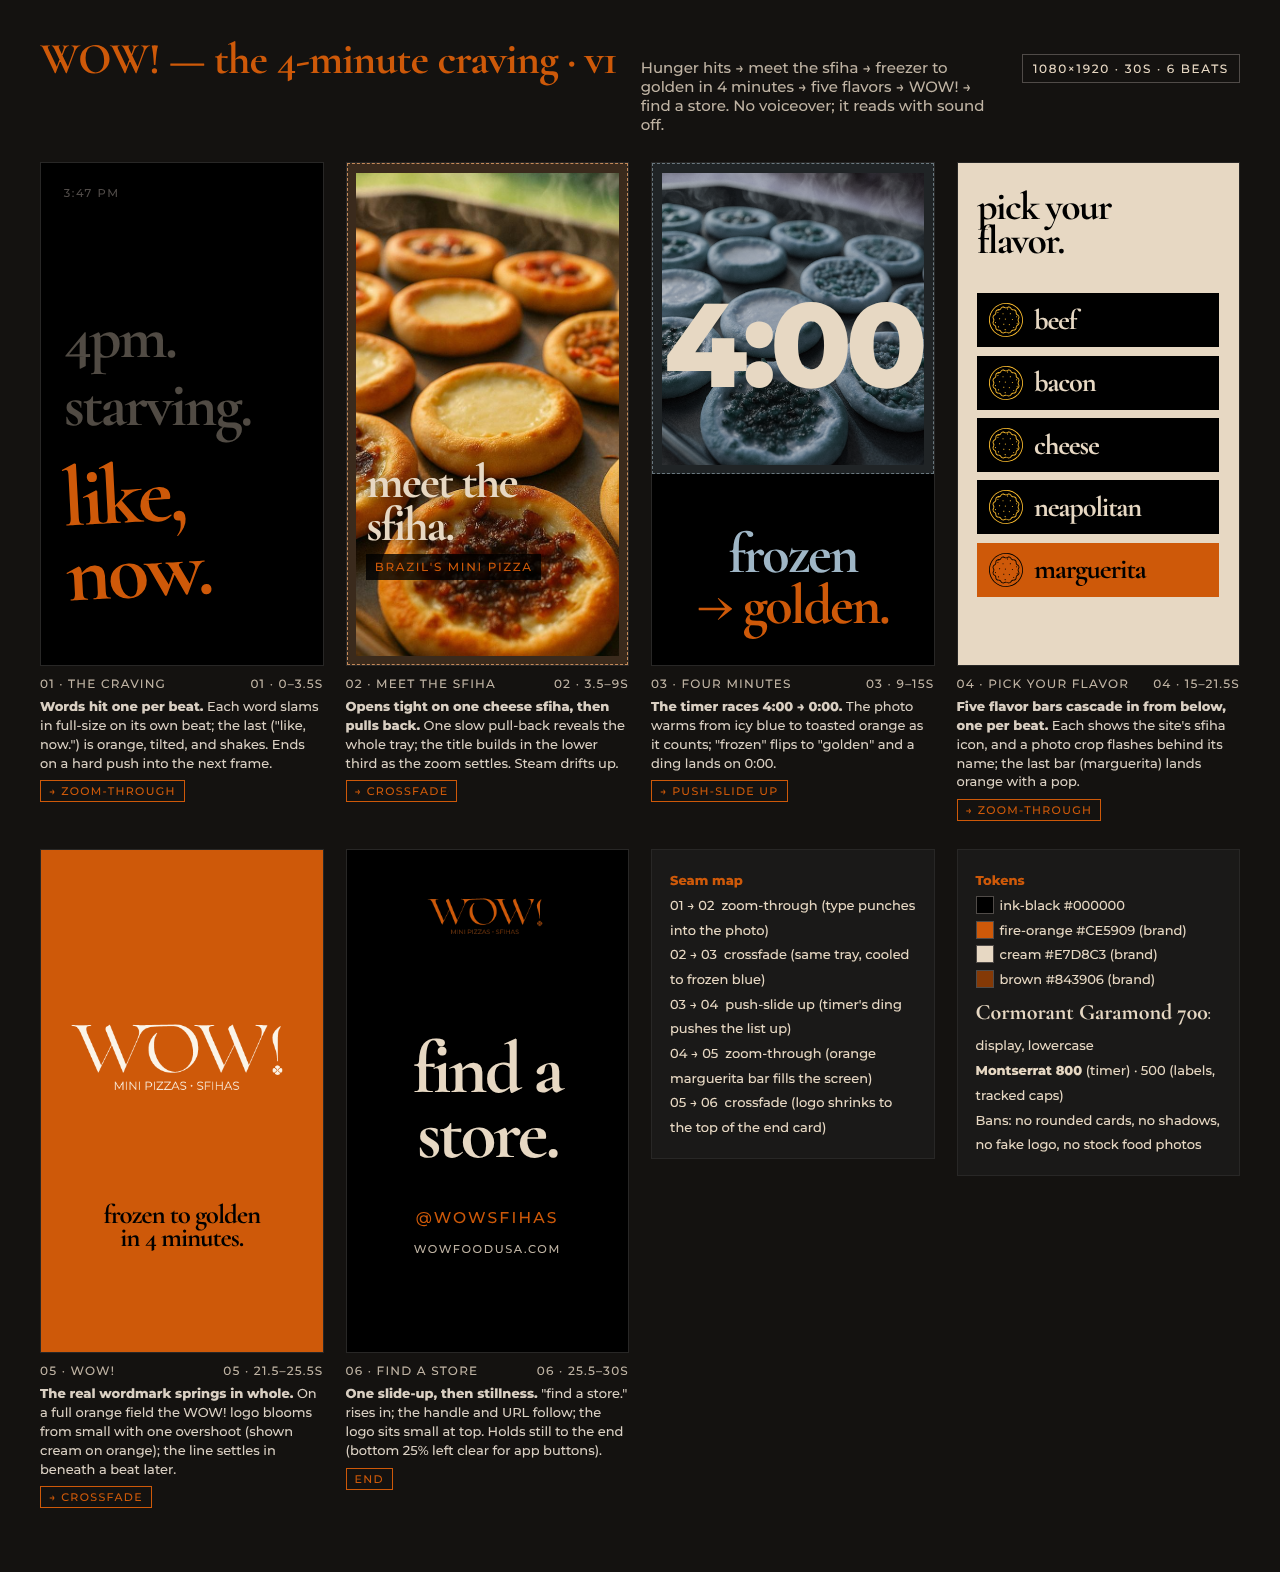
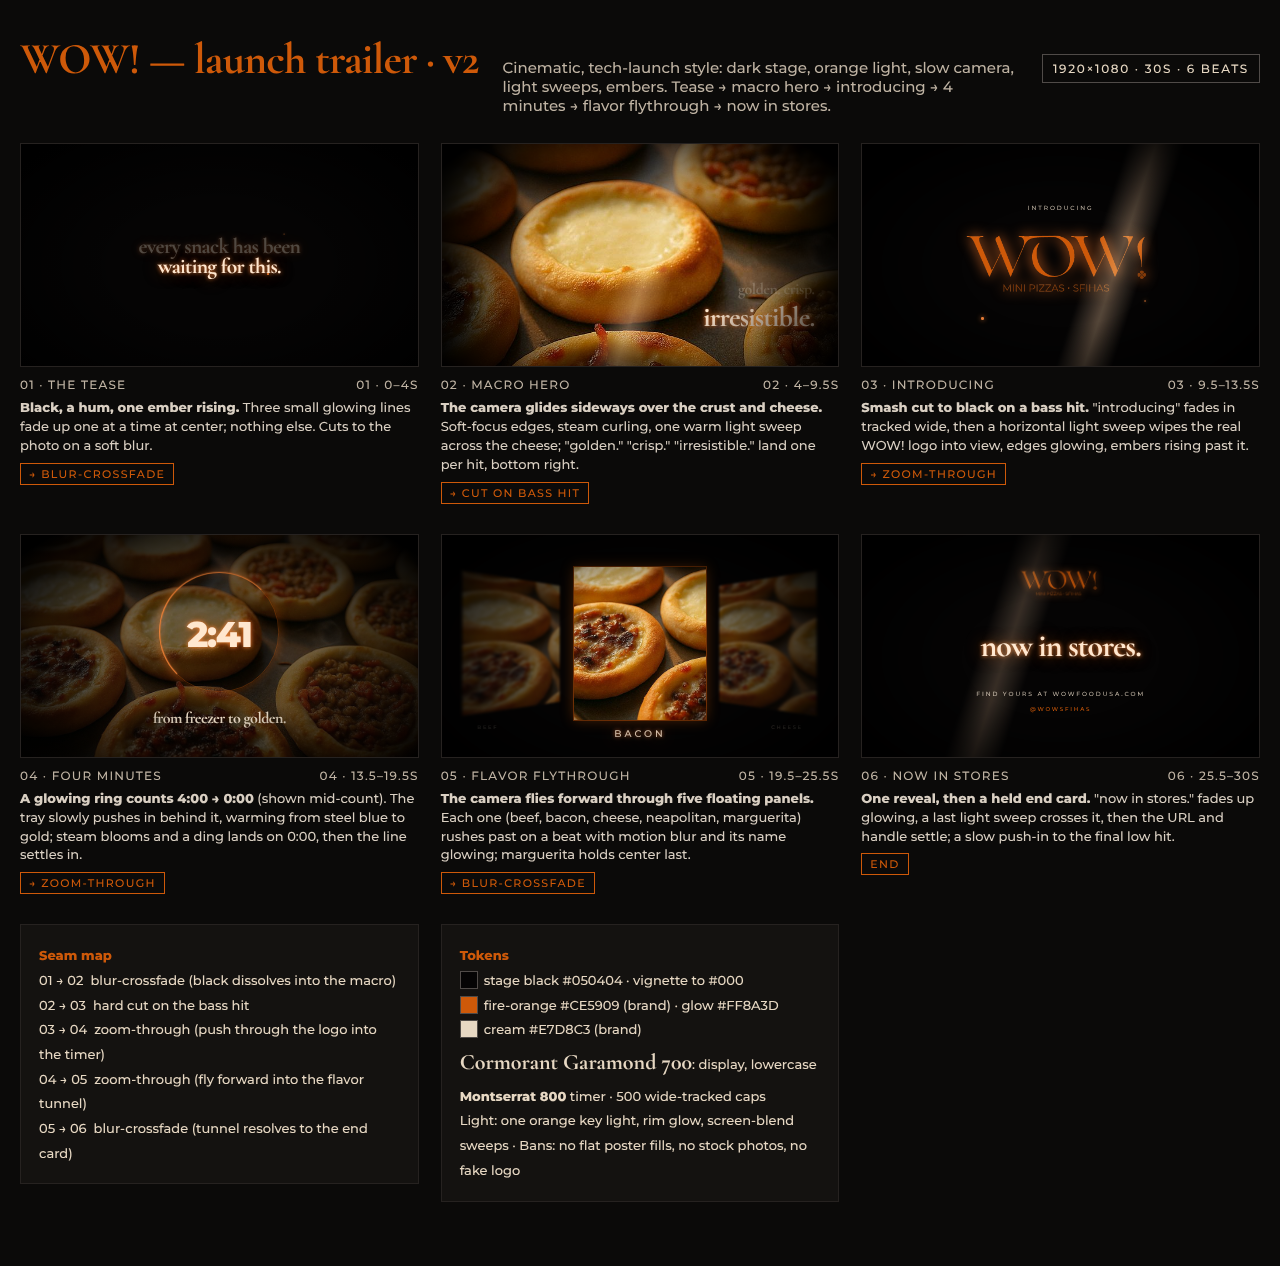
WOW Food promo: cinematic storyboard sketch sheet v2 (16:9 master)
Claude-Session: https://claude.ai/code/session_01MET2YuLU4Gcs9yWgBiYMVD

diff --git a/videos/wowfood-promo/storyboard.html b/videos/wowfood-promo/storyboard.html
@@ -1,136 +1,141 @@
 <!doctype html>
 <html lang="en"><head><meta charset="utf-8"><meta name="viewport" content="width=device-width,initial-scale=1">
-<title>WOW Food — 4-Minute Craving · storyboard v1</title>
+<title>WOW Food — Launch Trailer · storyboard v2</title>
 <style>
 @font-face { font-family: Cormorant; src: url(assets/fonts/cormorant-700.ttf); font-weight: 700; }
 @font-face { font-family: Montserrat; src: url(assets/fonts/montserrat-500.ttf); font-weight: 500; }
 @font-face { font-family: Montserrat; src: url(assets/fonts/montserrat-800.ttf); font-weight: 800; }
-:root { --ink: #000; --ink2: #1A1918; --orange: #CE5909; --cream: #E7D8C3; --brown: #843906; --hint: #504B48; }
+:root { --orange: #CE5909; --glow: #ff8a3d; --cream: #E7D8C3; --brown: #843906; }
 * { box-sizing: border-box; }
-body { margin: 0; background: #141210; color: var(--cream); font-family: Montserrat, system-ui, sans-serif; padding: 32px 16px 64px; }
-header { max-width: 1200px; margin: 0 auto 28px; display: flex; flex-wrap: wrap; gap: 12px 24px; align-items: baseline; }
+body { margin: 0; background: #0b0a09; color: var(--cream); font-family: Montserrat, system-ui, sans-serif; padding: 32px 16px 64px; }
+header { max-width: 1240px; margin: 0 auto 28px; display: flex; flex-wrap: wrap; gap: 12px 24px; align-items: baseline; }
 h1 { font-family: Cormorant, Georgia, serif; font-size: 44px; margin: 0; color: var(--orange); letter-spacing: -.02em; }
 .dek { color: #bfb3a3; font-size: 15px; flex: 1 1 320px; }
 .tag { font-size: 12px; letter-spacing: .14em; text-transform: uppercase; border: 1px solid #504B48; padding: 6px 10px; }
-.grid { max-width: 1200px; margin: 0 auto; display: grid; grid-template-columns: repeat(auto-fill, minmax(260px, 1fr)); gap: 28px 22px; }
+.grid { max-width: 1240px; margin: 0 auto; display: grid; grid-template-columns: repeat(auto-fill, minmax(360px, 1fr)); gap: 30px 22px; }
 .cell { container-type: inline-size; }
-.frame { aspect-ratio: 9 / 16; position: relative; overflow: hidden; background: var(--ink); border: 1px solid #282726; }
-.frame * { position: absolute; margin: 0; }
-.big { font-family: Cormorant, Georgia, serif; font-weight: 700; letter-spacing: -.04em; line-height: .88; text-transform: lowercase; }
-.lab { font-family: Montserrat, sans-serif; font-weight: 500; letter-spacing: .14em; text-transform: uppercase; }
-.photo { background: #3a2a1c; border: 1.5px dashed #c48a5a; display: flex; align-items: center; justify-content: center; color: #e2b48a; font-size: 4cqw; text-align: center; padding: 3cqw; }
-.photo img { position: static; width: 100%; height: 100%; object-fit: cover; }
+.frame { aspect-ratio: 16 / 9; position: relative; overflow: hidden; background: #050404; border: 1px solid #262220; }
+.frame > * { position: absolute; margin: 0; }
+.vig { inset: 0; background: radial-gradient(ellipse at 50% 55%, transparent 35%, #000 92%); pointer-events: none; }
+.big { font-family: Cormorant, Georgia, serif; font-weight: 700; letter-spacing: -.03em; line-height: .9; text-transform: lowercase; }
+.lab { font-family: Montserrat, sans-serif; font-weight: 500; letter-spacing: .32em; text-transform: uppercase; }
+.glow { color: #ffe7cf; text-shadow: 0 0 1.2cqw var(--glow), 0 0 4cqw #ce590988; }
+.ph { object-fit: cover; }
+.sweep { top: -10%; height: 120%; width: 14cqw; background: linear-gradient(90deg, transparent, #ffd2a866, transparent); transform: skewX(-18deg); mix-blend-mode: screen; }
+.ember { width: .6cqw; height: .6cqw; border-radius: 50%; background: var(--glow); box-shadow: 0 0 1.4cqw var(--glow); }
 .meta { display: flex; justify-content: space-between; font-size: 12px; letter-spacing: .1em; text-transform: uppercase; color: #bfb3a3; margin: 10px 0 6px; }
 .note { font-size: 13px; line-height: 1.45; color: #d9cfc2; margin: 0 0 8px; }
 .chip { display: inline-block; font-size: 11px; letter-spacing: .12em; text-transform: uppercase; color: var(--orange); border: 1px solid var(--orange); padding: 3px 8px; }
-.ghost { opacity: .35; }
-.seams { aspect-ratio: auto; padding: 18px; background: var(--ink2); border: 1px solid #282726; font-size: 13px; line-height: 1.9; }
+.box { padding: 18px; background: #141210; border: 1px solid #262220; font-size: 13px; line-height: 1.9; }
 .sw { display: inline-block; width: 18px; height: 18px; vertical-align: -4px; margin-right: 6px; border: 1px solid #504B48; }
+.dim { opacity: .3; }
 </style></head>
 <body>
 <header>
-  <h1>WOW! — the 4-minute craving · v1</h1>
-  <div class="dek">Hunger hits → meet the sfiha → freezer to golden in 4 minutes → five flavors → WOW! → find a store. No voiceover; it reads with sound off.</div>
-  <div class="tag">1080×1920 · 30s · 6 beats</div>
+  <h1>WOW! — launch trailer · v2</h1>
+  <div class="dek">Cinematic, tech-launch style: dark stage, orange light, slow camera, light sweeps, embers. Tease → macro hero → introducing → 4 minutes → flavor flythrough → now in stores.</div>
+  <div class="tag">1920×1080 · 30s · 6 beats</div>
 </header>
 <main class="grid">
 
 <section class="cell" id="frame-01">
   <div class="frame">
-    <p class="lab" style="top:8cqw;left:8cqw;font-size:4cqw;color:var(--hint)">3:47 pm</p>
-    <p class="big ghost" style="top:52cqw;left:8cqw;font-size:22cqw;color:var(--cream)">4pm.</p>
-    <p class="big ghost" style="top:76cqw;left:8cqw;font-size:22cqw;color:var(--cream)">starving.</p>
-    <p class="big" style="top:104cqw;left:8cqw;font-size:30cqw;color:var(--orange);transform:rotate(-3deg)">like,<br>now.</p>
+    <div class="ember" style="left:62%;top:58%"></div><div class="ember" style="left:66%;top:40%;opacity:.5;transform:scale(.6)"></div>
+    <p class="big glow" style="left:0;right:0;top:42%;text-align:center;font-size:5.4cqw"><span class="dim">every snack has been</span><br>waiting for this.</p>
+    <div class="vig"></div>
   </div>
-  <div class="meta"><span>01 · The craving</span><span>01 · 0–3.5s</span></div>
-  <p class="note"><b>Words hit one per beat.</b> Each word slams in full-size on its own beat; the last ("like, now.") is orange, tilted, and shakes. Ends on a hard push into the next frame.</p>
-  <span class="chip">→ zoom-through</span>
+  <div class="meta"><span>01 · The tease</span><span>01 · 0–4s</span></div>
+  <p class="note"><b>Black, a hum, one ember rising.</b> Three small glowing lines fade up one at a time at center; nothing else. Cuts to the photo on a soft blur.</p>
+  <span class="chip">→ blur-crossfade</span>
 </section>
 
 <section class="cell" id="frame-02">
-  <div class="frame" style="background:var(--ink2)">
-    <div class="photo" style="inset:0"><img src="capture/assets/hero-combo.jpg" alt="" style="object-position:30% 50%"></div>
-    <p class="big" style="left:7cqw;bottom:42cqw;font-size:17cqw;color:var(--cream);text-shadow:0 .6cqw 3cqw #000a">meet the<br>sfiha.</p>
-    <p class="lab" style="left:7cqw;bottom:30cqw;font-size:4.2cqw;color:var(--orange);background:#000c;padding:2cqw 3cqw">brazil's mini pizza</p>
+  <div class="frame">
+    <img class="ph" src="capture/assets/hero-combo.jpg" alt="" style="left:-20%;top:-35%;width:150%;height:170%;object-position:40% 55%">
+    <div style="inset:0;backdrop-filter:blur(.0px);background:linear-gradient(90deg,#000c,transparent 22%,transparent 78%,#000c)"></div>
+    <div class="sweep" style="left:46%"></div>
+    <p class="big glow" style="right:6cqw;bottom:9cqw;font-size:7cqw">irresistible.</p>
+    <p class="big dim" style="right:6cqw;bottom:17.5cqw;font-size:4cqw;color:var(--cream)">golden. crisp.</p>
+    <div class="vig"></div>
   </div>
-  <div class="meta"><span>02 · Meet the sfiha</span><span>02 · 3.5–9s</span></div>
-  <p class="note"><b>Opens tight on one cheese sfiha, then pulls back.</b> One slow pull-back reveals the whole tray; the title builds in the lower third as the zoom settles. Steam drifts up.</p>
-  <span class="chip">→ crossfade</span>
+  <div class="meta"><span>02 · Macro hero</span><span>02 · 4–9.5s</span></div>
+  <p class="note"><b>The camera glides sideways over the crust and cheese.</b> Soft-focus edges, steam curling, one warm light sweep across the cheese; "golden." "crisp." "irresistible." land one per hit, bottom right.</p>
+  <span class="chip">→ cut on bass hit</span>
 </section>
 
 <section class="cell" id="frame-03">
   <div class="frame">
-    <div class="photo" style="left:0;right:0;top:0;height:62%;filter:saturate(.25) hue-rotate(170deg) brightness(.8)"><img src="capture/assets/og-image.jpg" alt=""></div>
-    <p class="big" style="left:0;right:0;top:46cqw;text-align:center;font-size:42cqw;color:var(--cream);font-family:Montserrat;font-weight:800;letter-spacing:-.05em">4:00</p>
-    <p class="big" style="left:0;right:0;bottom:30cqw;text-align:center;font-size:20cqw;color:#9fb6c6">frozen</p>
-    <p class="big" style="left:0;right:0;bottom:12cqw;text-align:center;font-size:20cqw;color:var(--orange)">→ golden.</p>
+    <p class="lab" style="left:0;right:0;top:27%;text-align:center;font-size:1.5cqw;color:#bfb3a3">introducing</p>
+    <img src="capture/assets/logo-wow-wordmark.png" alt="WOW!" style="left:22%;width:56%;top:31%;filter:drop-shadow(0 0 1.6cqw #ff7a2a)">
+    <div class="sweep" style="left:58%;opacity:.8"></div>
+    <div class="ember" style="left:30%;top:78%"></div><div class="ember" style="left:71%;top:70%;transform:scale(.7)"></div>
+    <div class="vig"></div>
   </div>
-  <div class="meta"><span>03 · Four minutes</span><span>03 · 9–15s</span></div>
-  <p class="note"><b>The timer races 4:00 → 0:00.</b> The photo warms from icy blue to toasted orange as it counts; "frozen" flips to "golden" and a ding lands on 0:00.</p>
-  <span class="chip">→ push-slide up</span>
+  <div class="meta"><span>03 · Introducing</span><span>03 · 9.5–13.5s</span></div>
+  <p class="note"><b>Smash cut to black on a bass hit.</b> "introducing" fades in tracked wide, then a horizontal light sweep wipes the real WOW! logo into view, edges glowing, embers rising past it.</p>
+  <span class="chip">→ zoom-through</span>
 </section>
 
 <section class="cell" id="frame-04">
-  <div class="frame" style="background:var(--cream)">
-    <p class="big" style="top:9cqw;left:7cqw;font-size:14cqw;color:var(--ink)">pick your<br>flavor.</p>
-    <div style="left:7cqw;right:7cqw;top:46cqw;display:grid;gap:3cqw;position:absolute">
-      <div style="position:relative;height:19cqw;background:var(--ink);display:flex;align-items:center;gap:4cqw;padding:0 4cqw"><img src="capture/assets/svgs/svg-31e0594a.svg" style="position:static;width:12cqw;filter:invert(1) sepia(1) saturate(4) hue-rotate(-20deg)"><span class="big" style="position:static;font-size:10cqw;color:var(--cream)">beef</span></div>
-      <div style="position:relative;height:19cqw;background:var(--ink);display:flex;align-items:center;gap:4cqw;padding:0 4cqw"><img src="capture/assets/svgs/svg-540e57a6.svg" style="position:static;width:12cqw;filter:invert(1) sepia(1) saturate(4) hue-rotate(-20deg)"><span class="big" style="position:static;font-size:10cqw;color:var(--cream)">bacon</span></div>
-      <div style="position:relative;height:19cqw;background:var(--ink);display:flex;align-items:center;gap:4cqw;padding:0 4cqw"><img src="capture/assets/svgs/svg-681eea7e.svg" style="position:static;width:12cqw;filter:invert(1) sepia(1) saturate(4) hue-rotate(-20deg)"><span class="big" style="position:static;font-size:10cqw;color:var(--cream)">cheese</span></div>
-      <div style="position:relative;height:19cqw;background:var(--ink);display:flex;align-items:center;gap:4cqw;padding:0 4cqw"><img src="capture/assets/svgs/svg-6cb1bc04.svg" style="position:static;width:12cqw;filter:invert(1) sepia(1) saturate(4) hue-rotate(-20deg)"><span class="big" style="position:static;font-size:10cqw;color:var(--cream)">neapolitan</span></div>
-      <div style="position:relative;height:19cqw;background:var(--orange);display:flex;align-items:center;gap:4cqw;padding:0 4cqw"><img src="capture/assets/svgs/svg-762cf8ec.svg" style="position:static;width:12cqw;filter:brightness(0)"><span class="big" style="position:static;font-size:10cqw;color:var(--ink)">marguerita</span></div>
-    </div>
+  <div class="frame">
+    <img class="ph" src="capture/assets/og-image.jpg" alt="" style="inset:0;width:100%;height:100%;filter:brightness(.45) saturate(.9);object-position:50% 60%">
+    <div style="left:50%;top:44%;width:30cqw;height:30cqw;transform:translate(-50%,-50%);border-radius:50%;border:.5cqw solid #ce590955;box-shadow:0 0 3cqw #ce590966"></div>
+    <div style="left:50%;top:44%;width:30cqw;height:30cqw;transform:translate(-50%,-50%) rotate(-90deg);border-radius:50%;border:.5cqw solid transparent;border-top-color:var(--glow);border-right-color:var(--glow);filter:drop-shadow(0 0 1cqw var(--glow))"></div>
+    <p class="glow" style="left:0;right:0;top:35%;text-align:center;font-family:Montserrat;font-weight:800;font-size:9cqw;letter-spacing:-.04em">2:41</p>
+    <p class="big" style="left:0;right:0;bottom:8cqw;text-align:center;font-size:4cqw;color:var(--cream)">from freezer to golden.</p>
+    <div class="vig"></div>
   </div>
-  <div class="meta"><span>04 · Pick your flavor</span><span>04 · 15–21.5s</span></div>
-  <p class="note"><b>Five flavor bars cascade in from below, one per beat.</b> Each shows the site's sfiha icon, and a photo crop flashes behind its name; the last bar (marguerita) lands orange with a pop.</p>
+  <div class="meta"><span>04 · Four minutes</span><span>04 · 13.5–19.5s</span></div>
+  <p class="note"><b>A glowing ring counts 4:00 → 0:00</b> (shown mid-count). The tray slowly pushes in behind it, warming from steel blue to gold; steam blooms and a ding lands on 0:00, then the line settles in.</p>
   <span class="chip">→ zoom-through</span>
 </section>
 
 <section class="cell" id="frame-05">
-  <div class="frame" style="background:var(--orange)">
-    <img src="capture/assets/logo-wow-wordmark.png" alt="WOW! mini pizzas · sfihas" style="left:4cqw;right:4cqw;top:52cqw;width:92cqw;filter:brightness(0) invert(.92) sepia(.2)">
-    <p class="big" style="left:0;right:0;bottom:36cqw;text-align:center;font-size:9.5cqw;color:var(--ink)">frozen to golden<br>in 4 minutes.</p>
+  <div class="frame" style="perspective:60cqw">
+    <div style="left:8%;top:20%;width:22%;height:58%;overflow:hidden;transform:rotateY(38deg);opacity:.45;filter:blur(.25cqw)"><img class="ph" src="capture/assets/hero-combo.jpg" style="width:340%;height:100%;object-position:5% 50%"></div>
+    <div style="left:70%;top:20%;width:22%;height:58%;overflow:hidden;transform:rotateY(-38deg);opacity:.45;filter:blur(.25cqw)"><img class="ph" src="capture/assets/og-image.jpg" style="width:300%;height:100%;object-position:90% 50%"></div>
+    <div style="left:33%;top:14%;width:34%;height:70%;overflow:hidden;border:1px solid #ce590988;box-shadow:0 0 3cqw #ce590955"><img class="ph" src="capture/assets/hero-combo.jpg" style="width:260%;height:100%;object-position:60% 70%"></div>
+    <p class="lab glow" style="left:0;right:0;bottom:8%;text-align:center;font-size:2.4cqw">bacon</p>
+    <p class="lab dim" style="left:9%;bottom:12%;font-size:1.3cqw">beef</p><p class="lab dim" style="right:9%;bottom:12%;font-size:1.3cqw">cheese</p>
+    <div class="vig"></div>
   </div>
-  <div class="meta"><span>05 · WOW!</span><span>05 · 21.5–25.5s</span></div>
-  <p class="note"><b>The real wordmark springs in whole.</b> On a full orange field the WOW! logo blooms from small with one overshoot (shown cream on orange); the line settles in beneath a beat later.</p>
-  <span class="chip">→ crossfade</span>
+  <div class="meta"><span>05 · Flavor flythrough</span><span>05 · 19.5–25.5s</span></div>
+  <p class="note"><b>The camera flies forward through five floating panels.</b> Each one (beef, bacon, cheese, neapolitan, marguerita) rushes past on a beat with motion blur and its name glowing; marguerita holds center last.</p>
+  <span class="chip">→ blur-crossfade</span>
 </section>
 
 <section class="cell" id="frame-06">
   <div class="frame">
-    <img src="capture/assets/logo-wow-wordmark.png" alt="WOW!" style="left:25cqw;top:12cqw;width:50cqw">
-    <p class="big" style="left:0;right:0;top:66cqw;text-align:center;font-size:26cqw;color:var(--cream)">find a<br>store.</p>
-    <p class="lab" style="left:0;right:0;bottom:44cqw;text-align:center;font-size:5.5cqw;color:var(--orange)">@wowsfihas</p>
-    <p class="lab" style="left:0;right:0;bottom:34cqw;text-align:center;font-size:4cqw;color:#bfb3a3">wowfoodusa.com</p>
+    <img src="capture/assets/logo-wow-wordmark.png" alt="WOW!" style="left:38%;width:24%;top:12%;filter:drop-shadow(0 0 1cqw #ff7a2a)">
+    <p class="big glow" style="left:0;right:0;top:44%;text-align:center;font-size:8cqw">now in stores.</p>
+    <p class="lab" style="left:0;right:0;top:70%;text-align:center;font-size:1.5cqw;color:#bfb3a3">find yours at wowfoodusa.com</p>
+    <p class="lab" style="left:0;right:0;top:77%;text-align:center;font-size:1.4cqw;color:var(--orange)">@wowsfihas</p>
+    <div class="sweep" style="left:30%;opacity:.5"></div>
+    <div class="vig"></div>
   </div>
-  <div class="meta"><span>06 · Find a store</span><span>06 · 25.5–30s</span></div>
-  <p class="note"><b>One slide-up, then stillness.</b> "find a store." rises in; the handle and URL follow; the logo sits small at top. Holds still to the end (bottom 25% left clear for app buttons).</p>
+  <div class="meta"><span>06 · Now in stores</span><span>06 · 25.5–30s</span></div>
+  <p class="note"><b>One reveal, then a held end card.</b> "now in stores." fades up glowing, a last light sweep crosses it, then the URL and handle settle; a slow push-in to the final low hit.</p>
   <span class="chip">end</span>
 </section>
 
-<section class="cell">
-  <div class="seams">
-    <b style="color:var(--orange)">Seam map</b><br>
-    01 → 02 &nbsp;zoom-through (type punches into the photo)<br>
-    02 → 03 &nbsp;crossfade (same tray, cooled to frozen blue)<br>
-    03 → 04 &nbsp;push-slide up (timer's ding pushes the list up)<br>
-    04 → 05 &nbsp;zoom-through (orange marguerita bar fills the screen)<br>
-    05 → 06 &nbsp;crossfade (logo shrinks to the top of the end card)
-  </div>
-</section>
+<section class="cell"><div class="box">
+  <b style="color:var(--orange)">Seam map</b><br>
+  01 → 02 &nbsp;blur-crossfade (black dissolves into the macro)<br>
+  02 → 03 &nbsp;hard cut on the bass hit<br>
+  03 → 04 &nbsp;zoom-through (push through the logo into the timer)<br>
+  04 → 05 &nbsp;zoom-through (fly forward into the flavor tunnel)<br>
+  05 → 06 &nbsp;blur-crossfade (tunnel resolves to the end card)
+</div></section>
 
-<section class="cell">
-  <div class="seams">
-    <b style="color:var(--orange)">Tokens</b><br>
-    <span class="sw" style="background:#000"></span>ink-black #000000<br>
-    <span class="sw" style="background:#CE5909"></span>fire-orange #CE5909 (brand)<br>
-    <span class="sw" style="background:#E7D8C3"></span>cream #E7D8C3 (brand)<br>
-    <span class="sw" style="background:#843906"></span>brown #843906 (brand)<br>
-    <span style="font-family:Cormorant;font-size:22px">Cormorant Garamond 700</span>: display, lowercase<br>
-    <span style="font-family:Montserrat;font-weight:800">Montserrat 800</span> (timer) · 500 (labels, tracked caps)<br>
-    Bans: no rounded cards, no shadows, no fake logo, no stock food photos
-  </div>
-</section>
+<section class="cell"><div class="box">
+  <b style="color:var(--orange)">Tokens</b><br>
+  <span class="sw" style="background:#050404"></span>stage black #050404 · vignette to #000<br>
+  <span class="sw" style="background:#CE5909"></span>fire-orange #CE5909 (brand) · glow #FF8A3D<br>
+  <span class="sw" style="background:#E7D8C3"></span>cream #E7D8C3 (brand)<br>
+  <span style="font-family:Cormorant;font-size:22px">Cormorant Garamond 700</span>: display, lowercase<br>
+  <span style="font-family:Montserrat;font-weight:800">Montserrat 800</span> timer · 500 wide-tracked caps<br>
+  Light: one orange key light, rim glow, screen-blend sweeps · Bans: no flat poster fills, no stock photos, no fake logo
+</div></section>
 
 </main>
 </body></html>

diff --git a/videos/wowfood-promo/STORYBOARD.md b/videos/wowfood-promo/STORYBOARD.md
@@ -16,7 +16,7 @@ style: cinematic dark launch — near-black stage, orange key light and rim glow
 - voiceover: ""
 - duration: 4s
 - transition_in: cut
-- status: outline
+- status: built
 - src: compositions/frames/01-tease.html
 - type: hook
 - persuasion: Curiosity gap
@@ -34,7 +34,7 @@ keyMessage: something worth waiting for is coming.
 - voiceover: ""
 - duration: 5.5s
 - transition_in: blur-crossfade
-- status: outline
+- status: built
 - src: compositions/frames/02-macro.html
 - type: product_intro
 - persuasion: Sensory desire
@@ -52,7 +52,7 @@ keyMessage: this looks incredible.
 - voiceover: ""
 - duration: 4s
 - transition_in: cut
-- status: outline
+- status: built
 - src: compositions/frames/03-introducing.html
 - type: branding
 - persuasion: Brand reveal
@@ -70,7 +70,7 @@ keyMessage: WOW!
 - voiceover: ""
 - duration: 6s
 - transition_in: zoom-through
-- status: outline
+- status: built
 - src: compositions/frames/04-four-minutes.html
 - type: feature_showcase
 - persuasion: Friction reduction
@@ -88,7 +88,7 @@ keyMessage: freezer to golden in 4 minutes.
 - voiceover: ""
 - duration: 6s
 - transition_in: zoom-through
-- status: outline
+- status: built
 - src: compositions/frames/05-flavors.html
 - type: benefit_highlight
 - persuasion: Value stacking
@@ -106,7 +106,7 @@ keyMessage: five best-selling flavors.
 - voiceover: ""
 - duration: 4.5s
 - transition_in: blur-crossfade
-- status: outline
+- status: built
 - src: compositions/frames/06-now-in-stores.html
 - type: cta
 - persuasion: Friction reduction

diff --git a/videos/wowfood-promo/BRIEF.md b/videos/wowfood-promo/BRIEF.md
@@ -3,11 +3,11 @@ workflow: product-launch-video
 flow: automation
 storyboard: yes
 message: "Frozen to golden in 4 minutes"
-destination: instagram-reels
-aspect: 1080x1920
+destination: youtube
+aspect: 1920x1080
 language: en
 length: 30s
-angle: "4-minute craving"
+angle: "cinematic launch trailer — 4-minute promise"
 ---
 
 ## Intent
@@ -19,7 +19,7 @@ Story: a craving hits → the oven timer counts down 4 minutes → the best-sell
 ## Customizations
 
 - No voiceover: upbeat music bed + bold kinetic text.
-- Deliver two versions: 9:16 primary (Reels/TikTok) and a 16:9 adaptation (YouTube/site), same scenes and music.
+- Cinematic SaaS-style launch trailer (user, after v1 sketches). Deliver the 16:9 master, then a 9:16 re-frame.
 - End card: WOW Food logo + "Find a store" + @wowsfihas (no phone/email).
 
 ## Notes
